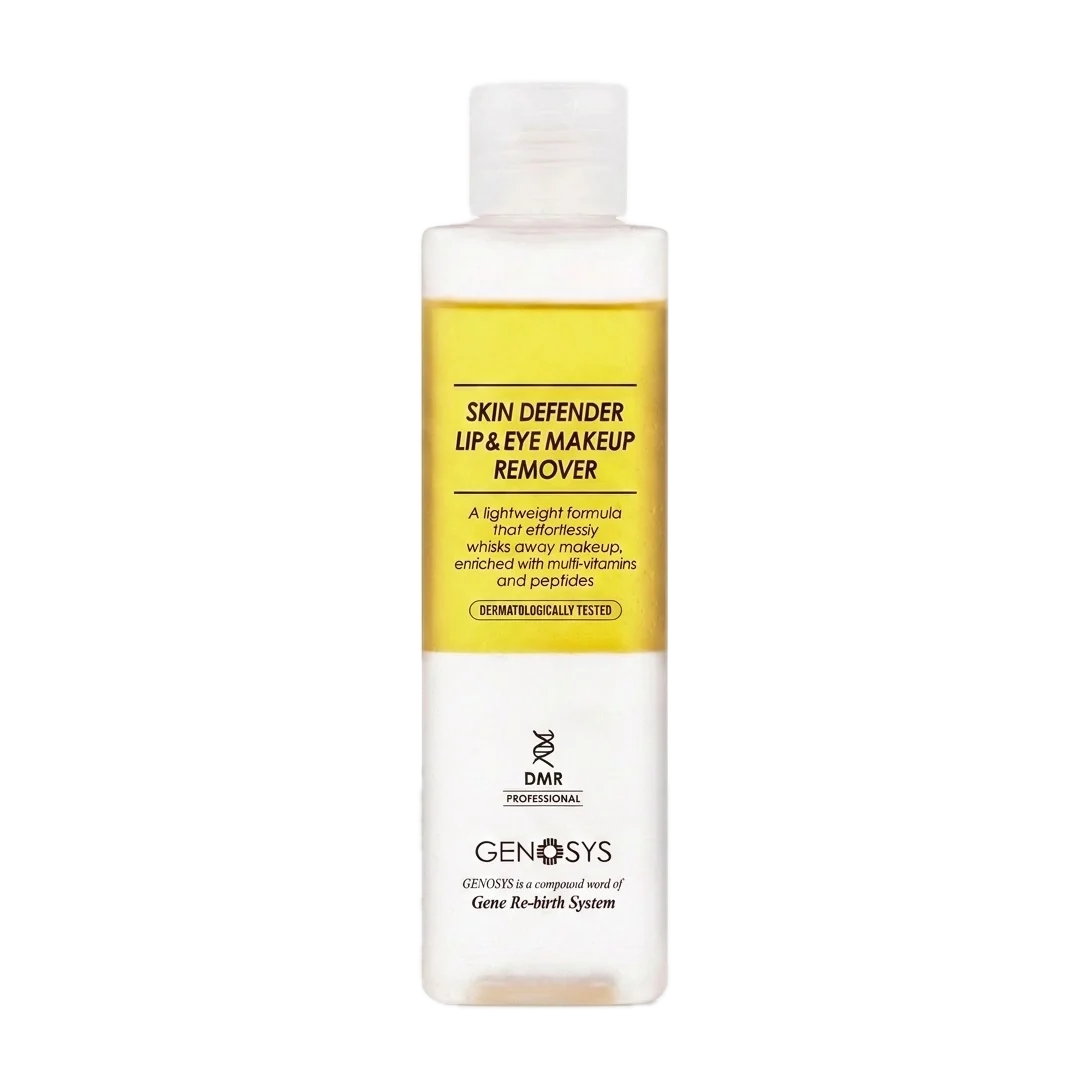
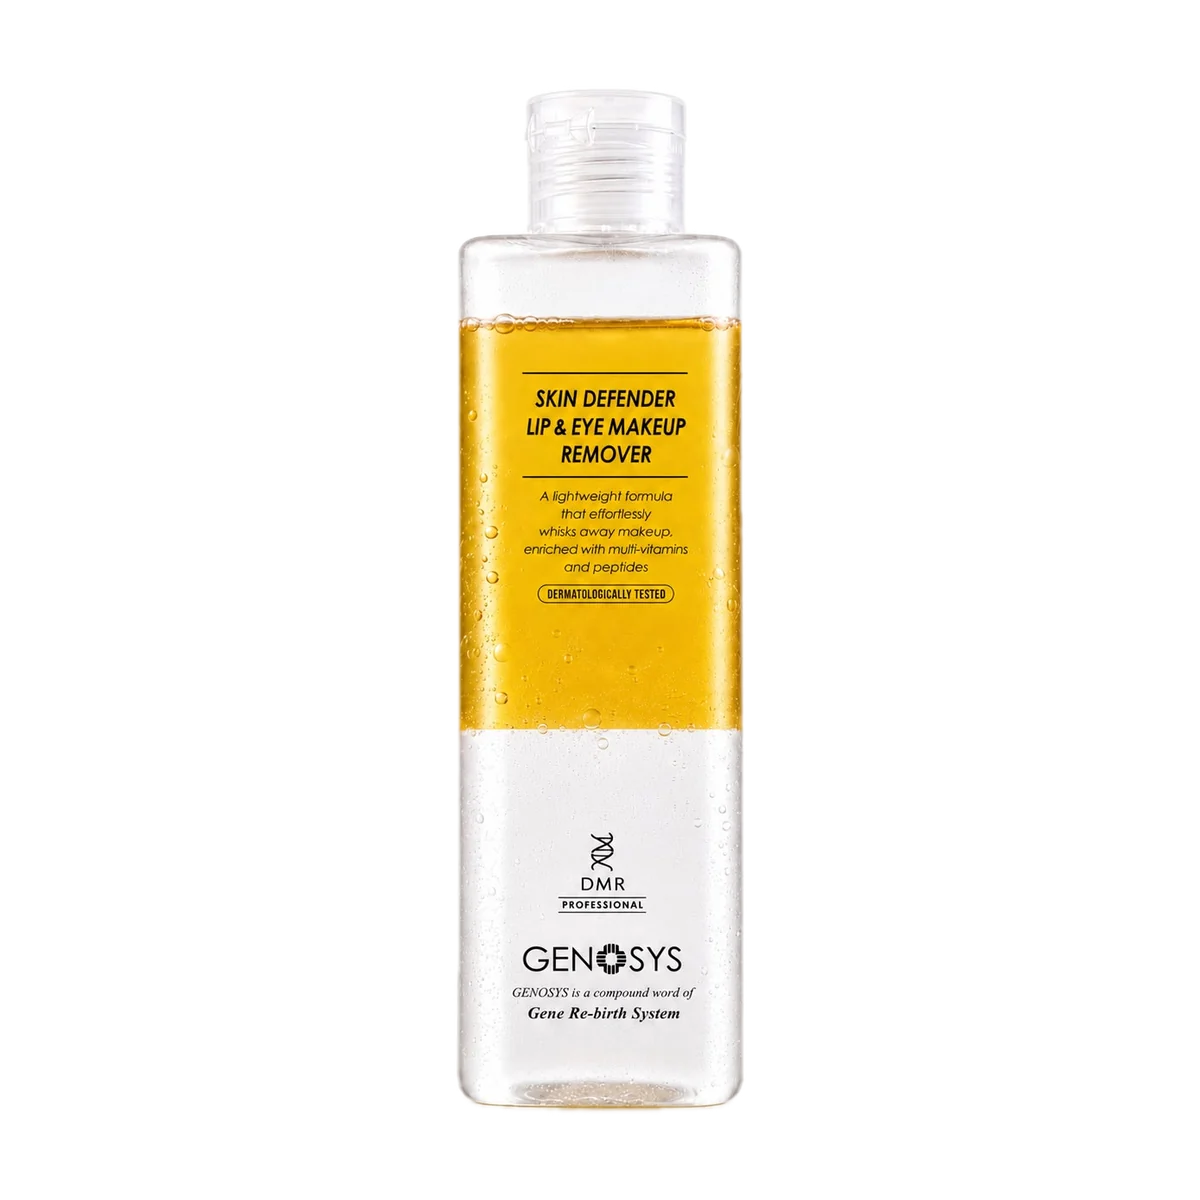
Product 11: move SKIN DEFENDER onto the August campaign slides
The remover page was running a 2026-07 set whose leftover slide copy had
already been queued for re-export. The new set covers the same ground on
purpose, so the gallery, the bespoke page art and the packshot all move
together rather than leaving the page half-updated.

Gallery is S1-S6 plus the closing card; the tall cut stays out of it and on
disk for social, matching product 52. Claims verified against the Intertek
formula and artwork - the ten-vitamin count and both peptides are exact.

Changed region(s): [[0.375, 0.125, 0.625, 0.9375], [0.5312, 0.125, 0.5625, 0.1562]]

diff --git a/app/api/mobile/training/route.ts b/app/api/mobile/training/route.ts
@@ -109,7 +109,7 @@ const productDocuments = [
   { id: 'eyecell-zone', title: 'EyeCell EYE ZONE CARE SYSTEM', fileSize: '1.8 MB', downloadUrl: `${BASE_URL}/documents/PPT/GENOSYS%20EyeCell%20EYE%20ZONE%20CARE%20SYSTEM.pdf`, image: `${BASE_URL}/images/eye_kit/main.jpeg`, productId: '50' },
   { id: 'epi-peeling', title: 'EPI TURNOVER BOOSTING PEELING GEL', fileSize: '3.8 MB', downloadUrl: `${BASE_URL}/documents/PPT/GENOSYS%20EPI%20TURNOVER%20BOOSTING%20PEELING%20GEL.pdf`, image: `${BASE_URL}/images/epi/main.jpeg`, productId: '12' },
   { id: 'radiance-serum', title: 'MULTI VITA RADIANCE SERUM', fileSize: '1.5 MB', downloadUrl: `${BASE_URL}/documents/PPT/GENOSYS%20MULTI%20VITA%20RADIANCE%20SERUM.pdf`, image: `${BASE_URL}/images/radiance_serum/main.jpeg`, productId: '21' },
-  { id: 'skin-defender', title: 'SKIN DEFENDER LIP & EYE MAKEUP REMOVER', fileSize: '0.7 MB', downloadUrl: `${BASE_URL}/documents/PPT/GENOSYS%20SKIN%20DEFENDER%20LIP%20%26%20EYE%20MAKEUP%20REMOVER.pdf`, image: `${BASE_URL}/images/remover/main4.jpeg`, productId: '11' },
+  { id: 'skin-defender', title: 'SKIN DEFENDER LIP & EYE MAKEUP REMOVER', fileSize: '0.7 MB', downloadUrl: `${BASE_URL}/documents/PPT/GENOSYS%20SKIN%20DEFENDER%20LIP%20%26%20EYE%20MAKEUP%20REMOVER.pdf`, image: `${BASE_URL}/images/defender_0/Main.jpeg`, productId: '11' },
   { id: 'microbiome-mist', title: 'MICROBIOME ENERGY INFUSING MIST', fileSize: '0.8 MB', downloadUrl: `${BASE_URL}/documents/PPT/GENOSYS%20MICROBIOME%20ENERGY%20INFUSING%20MIST.pdf`, image: `${BASE_URL}/images/mist_0/Main.jpeg`, productId: '14' },
   { id: 'skin-rescue', title: 'SKIN RESCUE OVERNIGHT CREAM MASK', fileSize: '1.3 MB', downloadUrl: `${BASE_URL}/documents/PPT/GENOSYS%20SKIN%20RESCUE%20OVERNIGHT%20CREAM%20MASK.pdf`, image: `${BASE_URL}/images/overnight/main.jpeg`, productId: '34' },
   { id: 'problem-toner', title: 'INTENSIVE PROBLEM CONTROL TONER', fileSize: '1.0 MB', downloadUrl: `${BASE_URL}/documents/PPT/GENOSYS%20INTENSIVE%20PROBLEM%20CONTROL%20TONER.pdf`, image: `${BASE_URL}/images/problem/Main.jpg`, productId: '15' },

diff --git a/app/training/trainingCatalogue.ts b/app/training/trainingCatalogue.ts
@@ -93,7 +93,7 @@ export const PRODUCT_SHEETS: ProductSheet[] = [
   { id: 'eyecell-zone', title: 'EyeCell EYE ZONE CARE SYSTEM', size: '1.8 MB', href: '/documents/PPT/GENOSYS%20EyeCell%20EYE%20ZONE%20CARE%20SYSTEM.pdf', image: '/images/eye_kit/main.jpeg', productId: '50' },
   { id: 'epi-peeling', title: 'EPI TURNOVER BOOSTING PEELING GEL', size: '3.8 MB', href: '/documents/PPT/GENOSYS%20EPI%20TURNOVER%20BOOSTING%20PEELING%20GEL.pdf', image: '/images/epi/main.jpeg', productId: '12' },
   { id: 'radiance-serum', title: 'MULTI VITA RADIANCE SERUM', size: '1.5 MB', href: '/documents/PPT/GENOSYS%20MULTI%20VITA%20RADIANCE%20SERUM.pdf', image: '/images/radiance_serum/main.jpeg', productId: '21' },
-  { id: 'skin-defender', title: 'SKIN DEFENDER LIP & EYE MAKEUP REMOVER', size: '0.7 MB', href: '/documents/PPT/GENOSYS%20SKIN%20DEFENDER%20LIP%20%26%20EYE%20MAKEUP%20REMOVER.pdf', image: '/images/remover/main4.jpeg', productId: '11' },
+  { id: 'skin-defender', title: 'SKIN DEFENDER LIP & EYE MAKEUP REMOVER', size: '0.7 MB', href: '/documents/PPT/GENOSYS%20SKIN%20DEFENDER%20LIP%20%26%20EYE%20MAKEUP%20REMOVER.pdf', image: '/images/defender_0/Main.jpeg', productId: '11' },
   { id: 'microbiome-mist', title: 'MICROBIOME ENERGY INFUSING MIST', size: '0.8 MB', href: '/documents/PPT/GENOSYS%20MICROBIOME%20ENERGY%20INFUSING%20MIST.pdf', image: '/images/mist_0/Main.jpeg', productId: '14' },
   { id: 'skin-rescue', title: 'SKIN RESCUE OVERNIGHT CREAM MASK', size: '1.3 MB', href: '/documents/PPT/GENOSYS%20SKIN%20RESCUE%20OVERNIGHT%20CREAM%20MASK.pdf', image: '/images/overnight/main.jpeg', productId: '34' },
   { id: 'problem-toner', title: 'INTENSIVE PROBLEM CONTROL TONER', size: '1.0 MB', href: '/documents/PPT/GENOSYS%20INTENSIVE%20PROBLEM%20CONTROL%20TONER.pdf', image: '/images/problem/Main.jpg', productId: '15' },

diff --git a/scripts/update-product-11-defender-slides-20260826.ts b/scripts/update-product-11-defender-slides-20260826.ts
@@ -1,0 +1,54 @@
+/**
+ * Product 11 (SKIN DEFENDER LIP & EYE MAKEUP REMOVER) moves to the August 2026
+ * campaign set in `public/images/defender_0/`.
+ *
+ *   hero     Main.jpeg          clean bottle on white
+ *   gallery  S1 … S6, Closing   the six storytelling slides plus the final card
+ *
+ * Packshot-tall.jpeg is the vertical cut. It stays on disk for social and out of
+ * the gallery, matching how product 52 handles its tall packshot.
+ *
+ * Replaces the /images/remover/ set (main4 + S1b … S6b). Idempotent.
+ *
+ * Run: npx tsx --env-file=.env.local scripts/update-product-11-defender-slides-20260826.ts
+ */
+import { prisma } from '../lib/prisma'
+
+const FOLDER = '/images/defender_0'
+const MAIN = `${FOLDER}/Main.jpeg`
+const GALLERY = [
+  `${FOLDER}/S1.jpeg`,
+  `${FOLDER}/S2.jpeg`,
+  `${FOLDER}/S3.jpeg`,
+  `${FOLDER}/S4.jpeg`,
+  `${FOLDER}/S5.jpeg`,
+  `${FOLDER}/S6.jpeg`,
+  `${FOLDER}/Closing.jpeg`,
+]
+
+async function main() {
+  const product = await prisma.product.findFirst({
+    where: { productNumber: '11' },
+    select: { id: true, name: true, image: true, images: true },
+  })
+
+  if (!product) throw new Error('Product 11 not found')
+
+  console.log('before')
+  console.log('  image ', product.image)
+  console.log('  images', product.images)
+
+  const updated = await prisma.product.update({
+    where: { id: product.id },
+    data: { image: MAIN, images: JSON.stringify(GALLERY) },
+    select: { image: true, images: true },
+  })
+
+  console.log('after')
+  console.log('  image ', updated.image)
+  console.log('  images', updated.images)
+
+  await prisma.$disconnect()
+}
+
+main()

diff --git a/lib/products.ts b/lib/products.ts
@@ -153,14 +153,15 @@ export const products: Product[] = [
     name: 'SKIN DEFENDER LIP & EYE MAKEUP REMOVER',
     price: 290,
     description: '200ml. Fresh, non-greasy lip and eye makeup remover. Shake the yellow oil into the water, soak a cotton pad, hold a few seconds on the lips and the eye area, then wipe. Cetyl ethylhexanoate 27.8%, disiloxane 13%, isohexadecane 9%. The vitamins and peptides sit at cosmetic trace. Not a face wash. Dermatologically tested.',
-    image: '/images/remover/main4.jpeg',
+    image: '/images/defender_0/Main.jpeg',
     images: JSON.stringify([
-      '/images/remover/S1b.jpg',
-      '/images/remover/S2b.jpg',
-      '/images/remover/S3b.jpg',
-      '/images/remover/S4b.jpg',
-      '/images/remover/S5b.jpg',
-      '/images/remover/S6b.jpg',
+      '/images/defender_0/S1.jpeg',
+      '/images/defender_0/S2.jpeg',
+      '/images/defender_0/S3.jpeg',
+      '/images/defender_0/S4.jpeg',
+      '/images/defender_0/S5.jpeg',
+      '/images/defender_0/S6.jpeg',
+      '/images/defender_0/Closing.jpeg',
     ]),
     category: 'Cleanser',
     inStock: true,

diff --git a/components/product/remover/RemoverProductPage.tsx b/components/product/remover/RemoverProductPage.tsx
@@ -94,14 +94,13 @@ interface ActiveIngredient {
   description: string
 }
 
-/** Section art, each slide paired with the section it illustrates. S5b is the
- *  clean-not-greasy results slide, S4b the shake-and-wipe how-to. Leftover
- *  slide copy (peptides, waterproof, no sting) is queued for re-export; the
- *  editorial copy does not repeat it. The engine figure stays on the
- *  bottle packshot. */
-const EFFECTS_IMAGE = '/images/remover/S5b.jpg'
-const HOWTO_IMAGE = '/images/remover/S4b.jpg'
-const ENGINE_IMAGE = '/images/remover/main4.jpeg'
+/** Section art, each slide paired with the section it illustrates. S2 is the
+ *  effective-removal slide that carries the non-greasy line, S6 the
+ *  shake-and-wipe how-to, and S3 the two-layer diagram that the engine
+ *  section describes in words. */
+const EFFECTS_IMAGE = '/images/defender_0/S2.jpeg'
+const HOWTO_IMAGE = '/images/defender_0/S6.jpeg'
+const ENGINE_IMAGE = '/images/defender_0/S3.jpeg'
 
 function parseJsonArray<T>(raw: string | null | undefined): T[] {
   if (!raw) return []

diff --git a/components/profile/DownloadsSection.tsx b/components/profile/DownloadsSection.tsx
@@ -348,7 +348,7 @@ export default function DownloadsSection() {
               <div className="w-10 h-10 bg-[var(--cera-cream-deep)] rounded-lg flex items-center justify-center overflow-hidden flex-shrink-0">
                 <Link href="/products/11">
                   <Image
-                    src="/images/remover/main4.jpeg"
+                    src="/images/defender_0/Main.jpeg"
                     alt="SKIN DEFENDER LIP & EYE MAKEUP REMOVER"
                     width={500}
                     height={300} 

diff --git a/lib/productCutouts.ts b/lib/productCutouts.ts
@@ -41,7 +41,7 @@ const CUTOUTS: Record<string, string> = {
   // 10 SNOW O₂ CLEANSER
   '/images/cleanser/main_clean.jpeg': '/images/cutout/10.webp',
   // 11 SKIN DEFENDER LIP & EYE MAKEUP REMOVER
-  '/images/remover/main4.jpeg': '/images/cutout/11.webp',
+  '/images/defender_0/Main.jpeg': '/images/cutout/11.webp',
   // 12 EPI TURNOVER BOOSTING PEELING GEL
   '/images/epi/main.jpeg': '/images/cutout/12.webp',
   // 13 SKIN RENEWAL PEELING SYSTEM (SRS)

diff --git a/lib/routineStepImages.ts b/lib/routineStepImages.ts
@@ -14,7 +14,7 @@ export const ROUTINE_STEP_IMAGE_BY_PRODUCT_ID: Readonly<Record<string, string>> 
   '1': '/images/genosys-microneedling-devices.jpg',
   '3': '/images/Booster.jpg',
   '10': '/images/cleanser/main_clean.jpeg',
-  '11': '/images/remover/main4.jpeg',
+  '11': '/images/defender_0/Main.jpeg',
   '12': '/images/epi/main.jpeg',
   '14': '/images/mist_0/Main.jpeg',
   '15': '/images/problem/Main.jpg',

diff --git a/docs/SESSION_CHANGES_2026-08-26_PRODUCT_11_DEFENDER_SLIDES.md b/docs/SESSION_CHANGES_2026-08-26_PRODUCT_11_DEFENDER_SLIDES.md
@@ -1,0 +1,82 @@
+# Product 11 — SKIN DEFENDER campaign slides (2026-08-26)
+
+Product 11 moves off the `/images/remover/` set and onto the August 2026 campaign
+set in `public/images/defender_0/`.
+
+## Naming
+
+Ten files arrived from WhatsApp, two of them byte-identical. Named to the same
+convention product 52 uses, so the two products read the same on disk.
+
+| New name | Was | Slide |
+|---|---|---|
+| `Main.jpeg` | `Main.jpeg` | HERO A — clean bottle on white |
+| `Packshot-tall.jpeg` | `Insta.jpeg` | HERO B — the vertical cut |
+| `S1.jpeg` | `…14.45.00 (2).jpeg` | GENTLE YET EFFECTIVE CLEANSING. |
+| `S2.jpeg` | `…14.45.00 (3).jpeg` | EFFECTIVE REMOVAL. GENTLE FORMULA. |
+| `S3.jpeg` | `…14.45.00 (4).jpeg` | BIPHASIC TECHNOLOGY. |
+| `S4.jpeg` | `…14.45.00 (5).jpeg` | 10 VITAMIN COMPLEX |
+| `S5.jpeg` | `…14.45.01.jpeg` | EYES. LIPS. DELICATE BY NATURE. |
+| `S6.jpeg` | `…14.45.01 (1).jpeg` | SHAKE WELL. / APPLY TO A COTTON PAD. / GENTLY WIPE. |
+| `Closing.jpeg` | `Closing.jpeg` | SLIDE 7 / FINAL |
+
+`…14.45.00.jpeg` was a duplicate of `Main.jpeg` and was deleted rather than named.
+
+`Packshot-tall.jpeg` is 941×1672 (9:16) and carries campaign copy, so it is not
+the clean 4:5 hero it was described as. It stays on disk for social and out of
+the gallery, which is how product 52 treats its own tall packshot, so nothing on
+the page depends on that discrepancy.
+
+## Where they are used
+
+- DB product 11: `image` → `Main.jpeg`; `images` → `S1`–`S6` + `Closing` (7).
+  Main is never listed in `images` — web and mobile both prepend it.
+- Bespoke page `RemoverProductPage.tsx` inline art repointed:
+  `EFFECTS_IMAGE` → `S2` (carries the non-greasy line), `HOWTO_IMAGE` → `S6`
+  (shake and wipe), `ENGINE_IMAGE` → `S3` (the two-layer diagram the engine
+  section describes in words). All three containers are `aspect-square` and the
+  slides are exactly 1:1, so they fill with no letterboxing and no blend mode.
+- Static fallback `lib/products.ts`, `lib/routineStepImages.ts`,
+  `app/training/trainingCatalogue.ts`, `app/api/mobile/training/route.ts`,
+  `components/profile/DownloadsSection.tsx` all repointed to `Main.jpeg`.
+- `lib/productCutouts.ts` rekeyed to `Main.jpeg`; `public/images/cutout/11.webp`
+  rebuilt from it (coverage 0.193, 47.9 KB).
+
+## Claims check against Intertek
+
+Source: `Registration/Intertek/GENOSYS SKIN DEFENDER LIP & EYE MAKEUP REMOVER/`.
+
+Supported:
+
+- **10 VITAMIN COMPLEX** — the formula carries exactly ten vitamin entries:
+  Panthenol, Tocopherol, Tocopheryl Acetate, Niacinamide, Biotin, Folic Acid,
+  Pyridoxine, Cyanocobalamin, Sodium Ascorbyl Phosphate, Thiamine HCl.
+- **Palmitoyl Tripeptide-5** and **Acetyl Tetrapeptide-5** — both in the formula
+  under exactly those INCI names.
+- **200 ml** — artwork reads `NET WT. 200 ml / 6.76 fl. oz.`
+- **South Korea** — artwork reads `Seoul, South Korea`.
+- **DERMATOLOGICALLY TESTED** — on the registered artwork.
+- **Biphasic** — the product is a visible oil-over-water two-layer system and the
+  pack instructs shaking before use.
+
+Open:
+
+- **OPHTHALMOLOGICALLY TESTED**, on `Closing.jpeg` and `Packshot-tall.jpeg`, is
+  not on the registered artwork and no certificate is in the local archive. The
+  2017 Safety Assessment for the predecessor recommended the test be carried
+  out. Vadim confirmed the test was done and the certificate is simply not
+  archived here, and asked to publish as-is. Worth filing the certificate with
+  the dossier when DTS MG sends it.
+
+## Notes
+
+- `public/images/cutout/11.webp` was replaced under its own filename. `/images/*`
+  is served immutable for a year, but the old and new cut-outs are the same
+  bottle at 0.186 vs 0.193 coverage, so a cached visitor sees no meaningful
+  difference. Keeping the `<productNumber>.webp` convention was worth more than
+  cache-busting a visually identical asset.
+- `build-cutouts.py` reads `/tmp/imgs.json`, which is a stale dump. Run
+  `scripts/cutout/dump-product-images.ts > /tmp/imgs.json` first or it silently
+  rebuilds from the previous hero. It did exactly that on the first attempt here.
+- Old `/images/remover/` assets are removed in a follow-up pass, after the new
+  files are live, per the order-email image rule.
